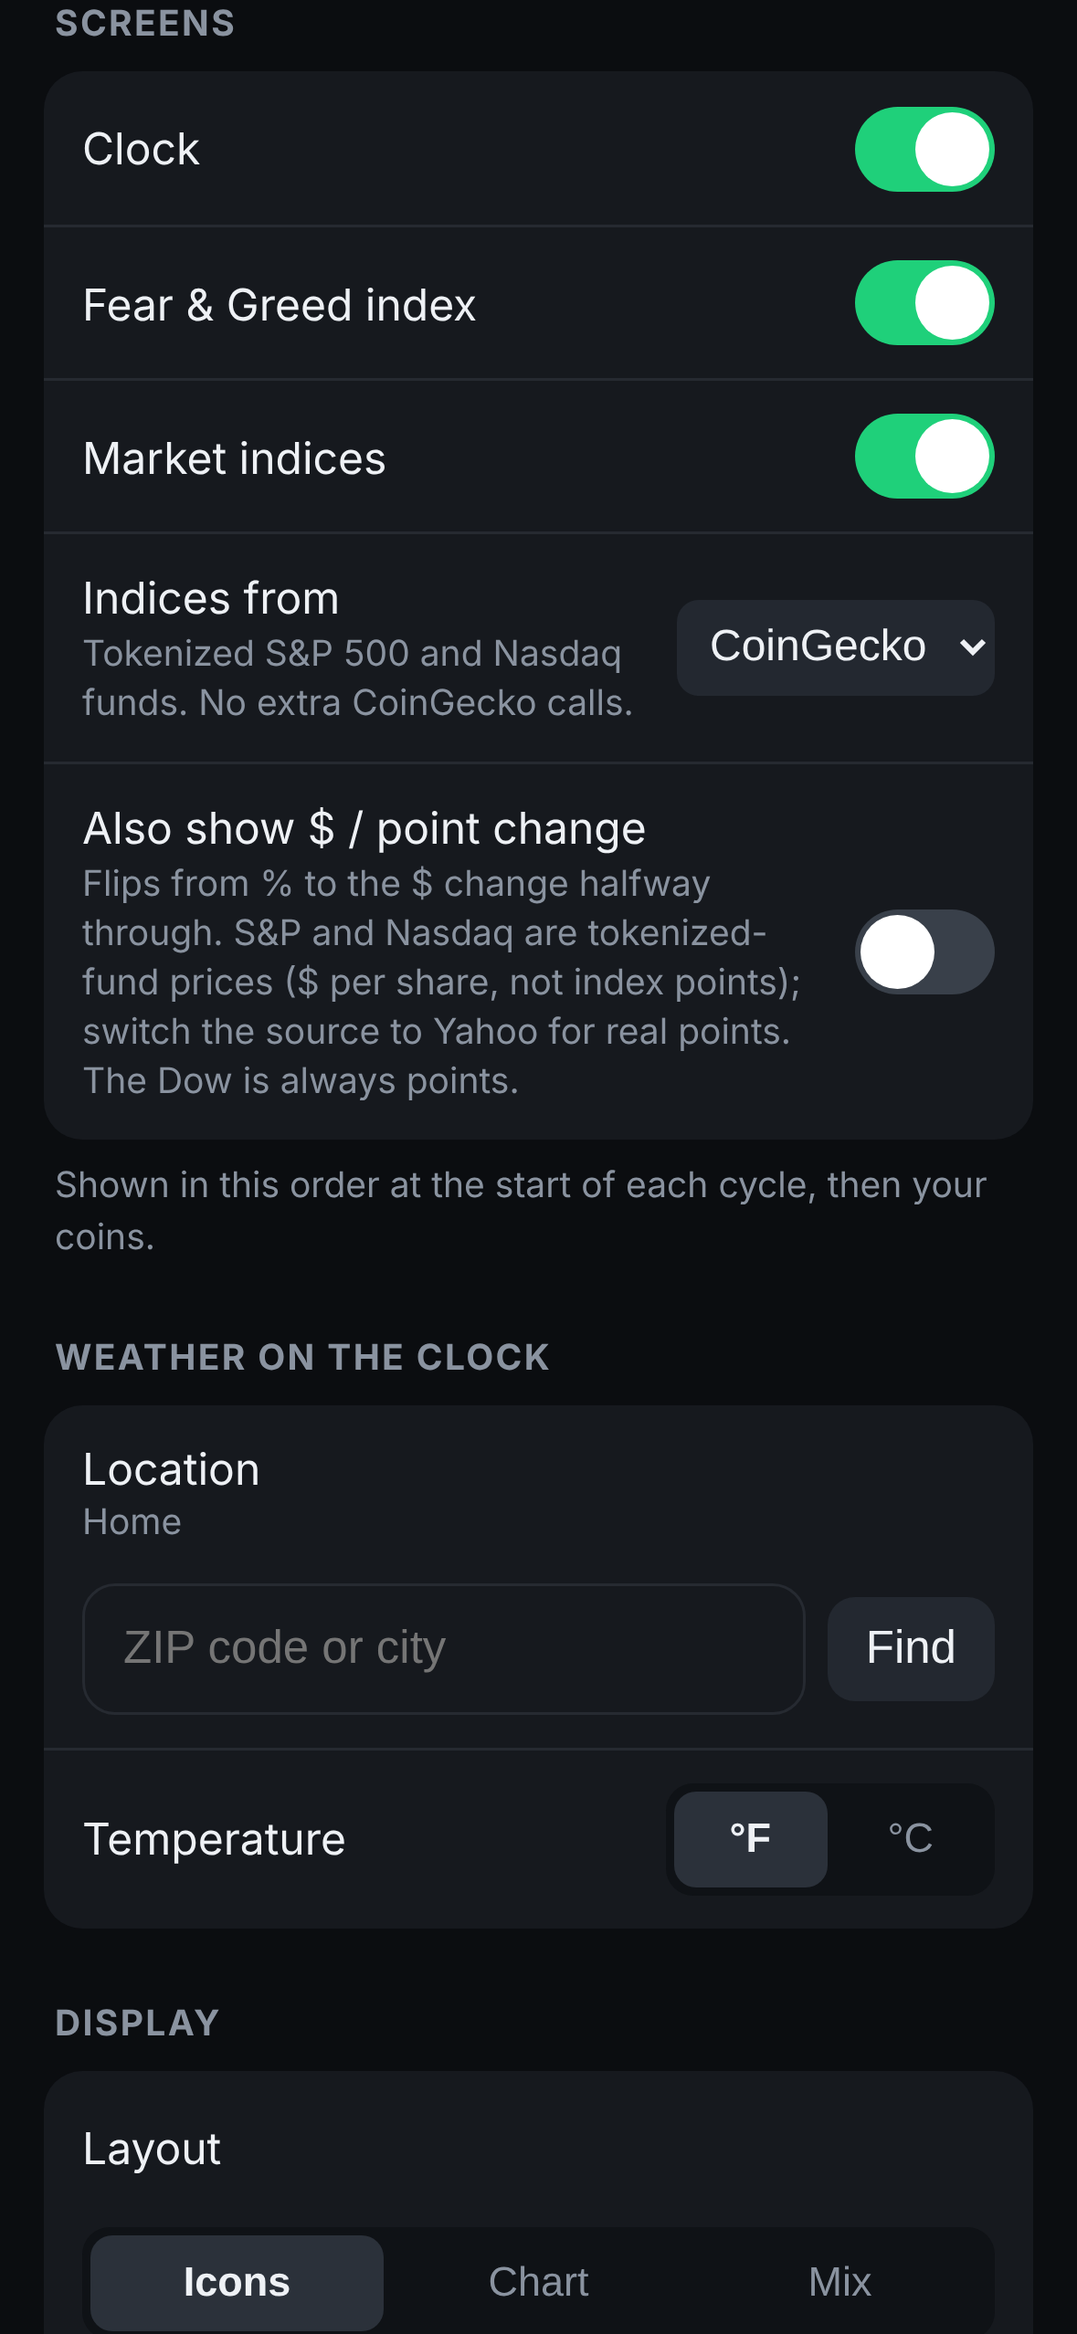
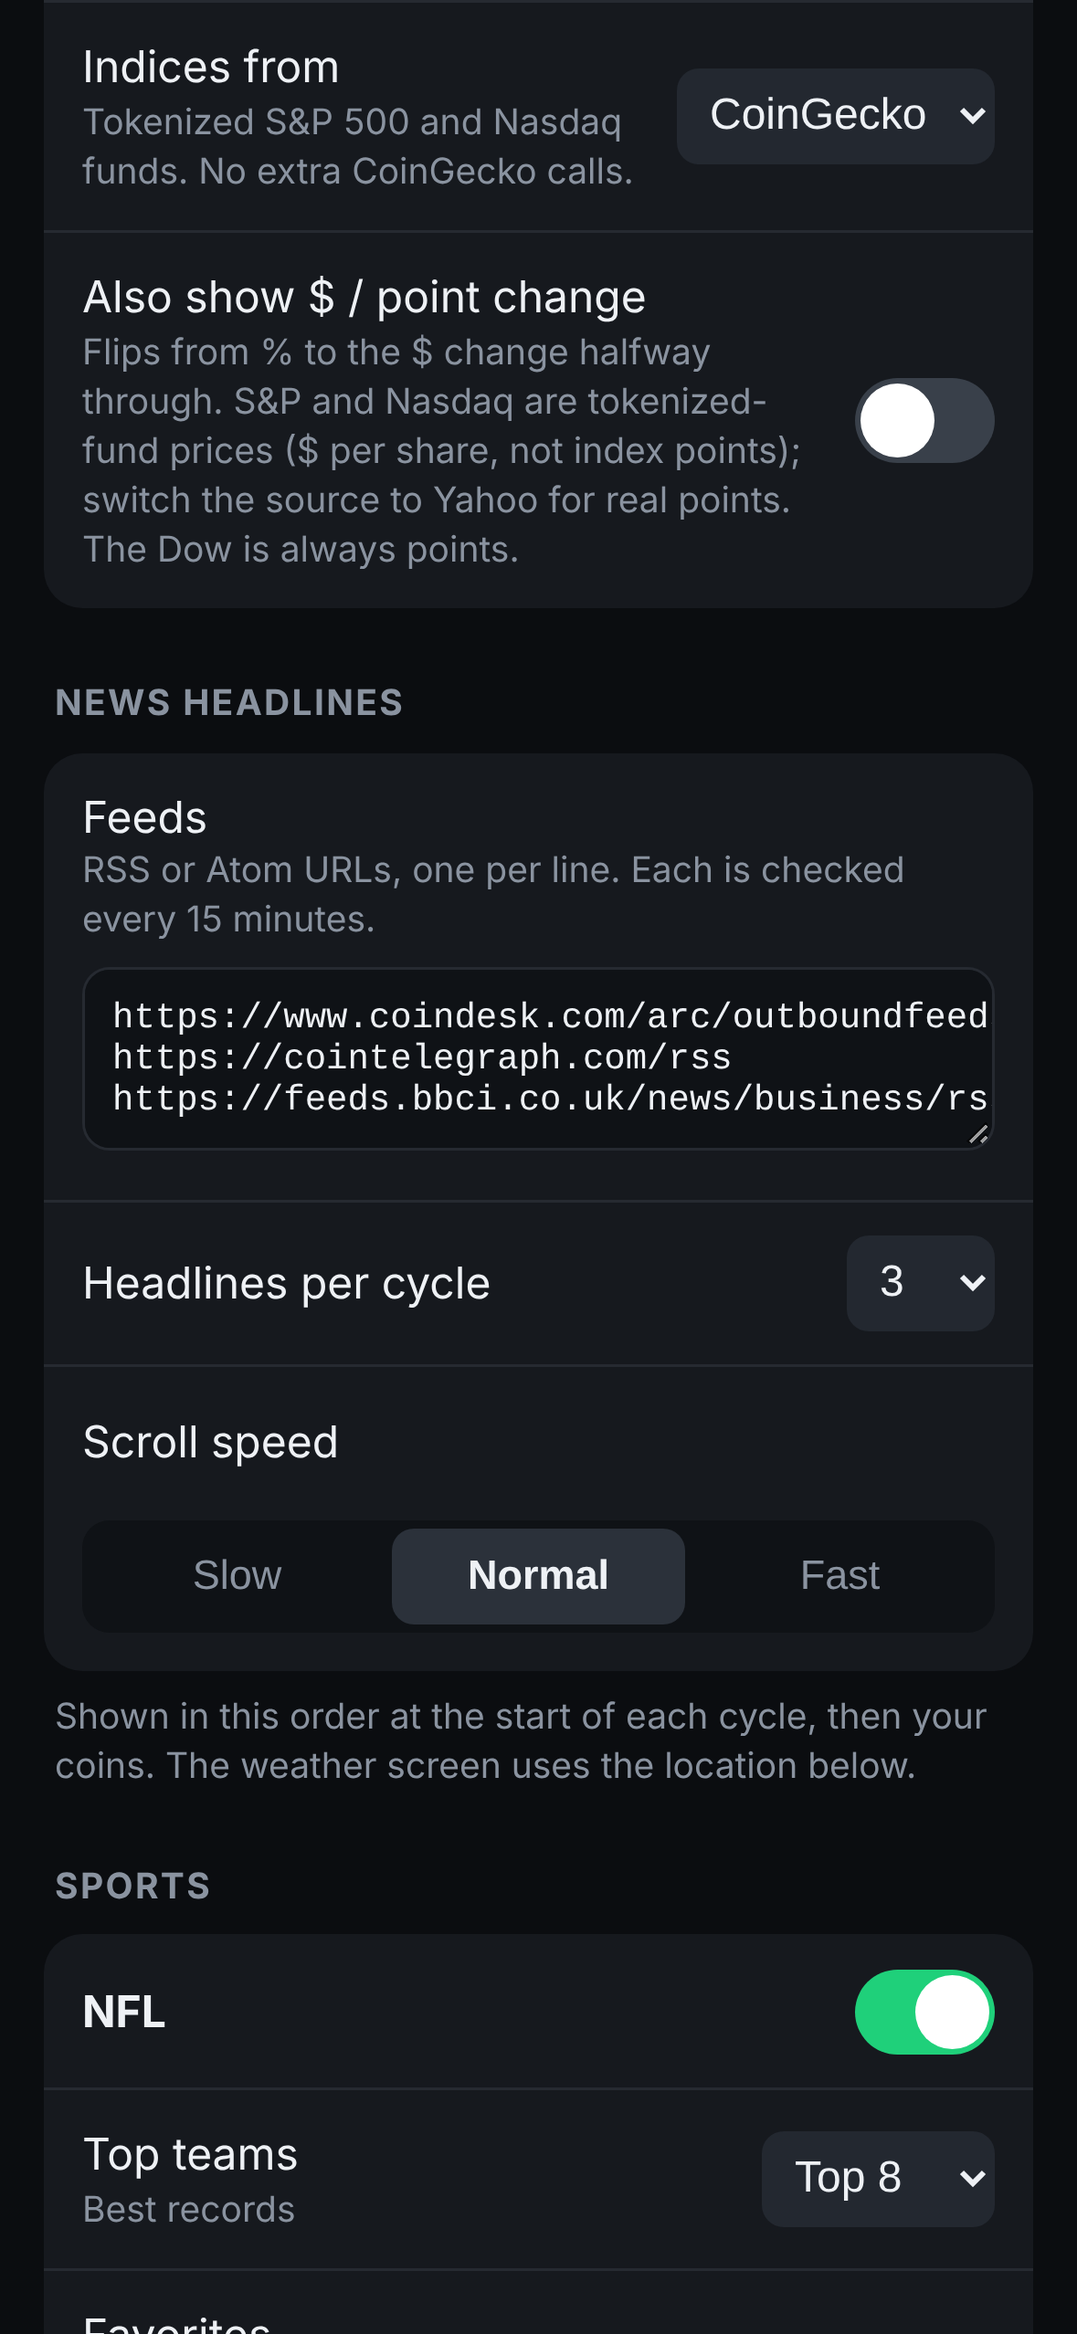
Docs and screenshots for the weather, news and sports screens
README section for the three screens and their settings, settings.env
example values, panel screenshots 13-19 on the contact sheet, news and
sports GIFs (docs/preview-news.gif, docs/preview-sports.gif), and iPhone
settings-page screenshots of the Screens, News and Sports sections.

Claude-Session: https://claude.ai/code/session_01CrJip9Jrz3Ax6cVzvSE4re

diff --git a/screenshots.py b/screenshots.py
@@ -12,14 +12,18 @@ and the output is the same on every run.
 import argparse
 import logging
 import os
-from datetime import datetime
+from datetime import datetime, timezone
+from zoneinfo import ZoneInfo
 
 from display import MatrixDisplay
 from prices import NetworkError, RateLimitError
-from sample import apply_sample
+from sample import apply_sample, sample_games, sample_news, sample_weather
+from sports import BY_KEY
 from ticker import HERE, Config, Ticker
 
 FIXED_TIME = datetime(2026, 1, 15, 21, 41)
+SPORTS_NOW = datetime(2026, 11, 7, 23, 0, tzinfo=timezone.utc)   # a Saturday evening in season
+SPORTS_TZ = ZoneInfo("America/New_York")                          # only changes how times print
 
 
 def build(rows, cols, layout="classic"):
@@ -66,6 +70,22 @@ def main():
         t.last_error = NetworkError("no route to host")
         return r.message("NO DATA", t.error_reason(), color=(230, 40, 30))
 
+    news_now = SPORTS_NOW.timestamp()
+    news = sample_news(news_now)
+    games = sample_games(SPORTS_NOW)
+
+    def mid(anim):
+        return anim.frame_at(anim.scroll_start + 0.45 * (anim.scroll_end - anim.scroll_start))
+
+    def game(key, i, fav=None):
+        g = dict(games[key][i], fav={"away": fav == "away", "home": fav == "home"})
+        return r.game(g, BY_KEY[key], SPORTS_TZ, SPORTS_NOW.timestamp()).first_frame()
+
+    def long_game():
+        g = dict(games["ncaam"][0], fav={"away": True, "home": False})
+        g["away"] = dict(g["away"], abbr="WASH", rank=25, score=105)
+        return r.game(g, BY_KEY["ncaam"], SPORTS_TZ, SPORTS_NOW.timestamp())
+
     def chart(sym, stale=False):
         r.layout = "chart"
         try:
@@ -90,6 +110,15 @@ def main():
         ("10e-list-view-5-stale", lambda: r.list_page(list5, rows=5, stale=True)),
         ("11-no-data-offline", offline),
         ("12-no-data-rate-limit", rate_limited),
+        ("13-weather", lambda: r.weather(sample_weather(), "F", FIXED_TIME.replace(hour=14))),
+        ("13b-weather-rain", lambda: r.weather(sample_weather(61), "F", FIXED_TIME.replace(hour=14))),
+        ("14-news", lambda: r.news(news[0], now_ts=news_now).first_frame()),
+        ("14b-news-scrolling", lambda: mid(r.news(news[0], now_ts=news_now))),
+        ("15-sports-live", lambda: game("nfl", 0, fav="away")),
+        ("16-sports-college-ranked", lambda: game("ncaaf", 0)),
+        ("17-sports-final", lambda: game("nba", 1)),
+        ("18-sports-upcoming", lambda: game("mlb", 2, fav="home")),
+        ("19-sports-row-scrolling", lambda: mid(long_game())),
     ]
     paths = []
     for name, make in shots:
@@ -101,6 +130,45 @@ def main():
     print("wrote", os.path.relpath(sheet))
     gif = transition_gif(os.path.join(HERE, "docs", "preview-scroll.gif"), args.rows, args.cols)
     print("wrote", os.path.relpath(gif))
+    for gif in (news_gif(os.path.join(HERE, "docs", "preview-news.gif")),
+                sports_gif(os.path.join(HERE, "docs", "preview-sports.gif"))):
+        print("wrote", os.path.relpath(gif))
+
+
+def _gif_ticker(transition="scroll"):
+    from display import GifDisplay
+    cfg = Config()
+    cfg.download_icons = False
+    cfg.transition = transition
+    gif = GifDisplay(64, 32, scale=4)
+    return Ticker(cfg, gif), gif
+
+
+def news_gif(out):
+    """Two headlines scrolling, made by the real Ticker.play() code (one pixel per frame)."""
+    t, gif = _gif_ticker()
+    now = SPORTS_NOW.timestamp()
+    items = sample_news(now)
+    for item in items[:2]:
+        t.play(t.renderer.news(item, now_ts=now))
+    t.play(t.renderer.news(items[0], now_ts=now))   # back to the start so it loops
+    gif.save(out)
+    return out
+
+
+def sports_gif(out):
+    """A few games with the scroll transition; one row is too long and scrolls."""
+    t, gif = _gif_ticker()
+    games = sample_games(SPORTS_NOW)
+    ts = SPORTS_NOW.timestamp()
+    g = dict(games["ncaam"][0], fav={"away": True, "home": False})
+    g["away"] = dict(g["away"], abbr="WASH", rank=25, score=105)
+    seq = [(dict(games["nfl"][0], fav={"away": True, "home": False}), "nfl"), (g, "ncaam"),
+           (dict(games["nba"][1], fav={}), "nba"), (dict(games["nfl"][0], fav={"away": True, "home": False}), "nfl")]
+    for game, key in seq:
+        t.play(t.renderer.game(game, BY_KEY[key], SPORTS_TZ, ts, hold=2.0))
+    gif.save(out)
+    return out
 
 
 def transition_gif(out, rows=32, cols=64, transition="scroll", hold=1.2):
@@ -142,6 +210,11 @@ LABELS = {
     "10c-list-view-5": "List view: 5 rows", "10d-list-view-4": "List view: 4 rows + %",
     "10e-list-view-5-stale": "List view, stale", "11-no-data-offline": "Offline, no cached prices",
     "12-no-data-rate-limit": "Rate limited, no cached prices",
+    "13-weather": "Weather: temp, high/low, next 12 h", "13b-weather-rain": "Weather: rain",
+    "14-news": "News headline (tag + age)", "14b-news-scrolling": "News: scrolling",
+    "15-sports-live": "Sports: live, favorite", "16-sports-college-ranked": "Sports: college, ranked",
+    "17-sports-final": "Sports: final (OT)", "18-sports-upcoming": "Sports: upcoming",
+    "19-sports-row-scrolling": "Sports: long row scrolls",
 }
 
 

diff --git a/sample.py b/sample.py
@@ -43,7 +43,18 @@ def apply_sample(ticker):
     ticker.yahoo_dow.data = [{"label": "DOW", "change": 0.18, "points": 81.4, "intraday": up}]
     ticker.fear_greed.data = {"value": 70, "label": "Greed", "yesterday": 65,
                               "history": [60, 58, 62, 66, 64, 63, 65, 70]}
-    ticker.weather.data = sample_weather()
+    ticker.weather.data = sample_weather(code=0, is_day=False)  # the clock screenshots are at night
+
+
+SAMPLE_NEWS = [  # made-up headlines and sources, for previews only
+    {"title": "Bitcoin Holds Above $109K as Spot ETF Inflows Reach a Three-Week High", "source": "CRYPTO WIRE"},
+    {"title": "Stocks Edge Higher as Tech Rallies Ahead of Earnings", "source": "MARKETS"},
+    {"title": "Stablecoin Supply Hits a New Record", "source": "CHAIN DAILY"},
+]
+
+
+def sample_news(now_ts, ages=(25 * 60, 2 * 3600, 5 * 3600)):
+    return [dict(item, at=now_ts - age, link=None) for item, age in zip(SAMPLE_NEWS, ages)]
 
 
 def sample_weather(code=2, is_day=True):

diff --git a/README.md b/README.md
@@ -10,8 +10,9 @@ for current Raspberry Pi OS. The hardware is the same; the software is rewritten
 
 Each coin screen shows the coin's icon, ticker, 24h change with ▲/▼, a 7-day chart and the
 price (auto-sized: `$109,235`, `$4,012.37`, `$0.0₄1123`). Each cycle can also show a **clock**
-with the weather, the crypto **Fear & Greed index**, and a **market indices** page. Screens scroll
-up into each other (or slide sideways, or switch instantly). Everything can be changed from your phone.
+with the weather, the crypto **Fear & Greed index**, and a **market indices** page, and optionally a
+**weather** screen, scrolling **news headlines** and **sports scores**. Screens scroll up into each
+other (or slide sideways, or switch instantly). Everything can be changed from your phone.
 
 ![Scroll transition](docs/preview-scroll.gif)
 
@@ -21,20 +22,25 @@ More screenshots (rendered by the emulator) are in [`docs/screenshots/`](docs/sc
 |--|--|--|--|--|--|
 | ![](docs/screenshots/07-coin-classic.png) | ![](docs/screenshots/06-featured.png) | ![](docs/screenshots/10d-list-view-4.png) | ![](docs/screenshots/10c-list-view-5.png) | ![](docs/screenshots/10-coin-stale.png) | ![](docs/screenshots/11-no-data-offline.png) |
 
+| Weather | News | Sports: live | Sports: college | Sports: final | Sports: upcoming |
+|--|--|--|--|--|--|
+| ![](docs/screenshots/13-weather.png) | ![](docs/screenshots/14-news.png) | ![](docs/screenshots/15-sports-live.png) | ![](docs/screenshots/16-sports-college-ranked.png) | ![](docs/screenshots/17-sports-final.png) | ![](docs/screenshots/18-sports-upcoming.png) |
+
 ## Contents
 
 1. [Hardware](#hardware)
 2. [Wiring check](#wiring-check)
 3. [Install](#install)
 4. [Configuration](#configuration)
-5. [Phone settings page](#phone-settings-page)
-6. [Updating (and rolling back)](#updating-and-rolling-back)
-7. [iPhone widget](#iphone-widget)
-8. [Running without hardware (emulator)](#running-without-hardware-emulator)
-9. [How failures are handled](#how-failures-are-handled)
-10. [Troubleshooting](#troubleshooting)
-11. [Development](#development)
-12. [Screenshots](#screenshots)
+5. [Weather, news and sports screens](#weather-news-and-sports-screens)
+6. [Phone settings page](#phone-settings-page)
+7. [Updating (and rolling back)](#updating-and-rolling-back)
+8. [iPhone widget](#iphone-widget)
+9. [Running without hardware (emulator)](#running-without-hardware-emulator)
+10. [How failures are handled](#how-failures-are-handled)
+11. [Troubleshooting](#troubleshooting)
+12. [Development](#development)
+13. [Screenshots](#screenshots)
 
 ## Hardware
 
@@ -136,8 +142,14 @@ value is logged as a warning and the default is used.
 | `FOCUS` | `off` | `on` = coin rotation shows only starred coins (clock, Fear & Greed and indices keep running). With nothing starred, all coins show |
 | `LIST_VIEW` | `off` | `off`, `4` (pages of 4: price + % change; the phone page's switch turns this on) or `5` (pages of 5 coins: ▲/▼ + price). Starred coins keep their big screens |
 | `LIST_PAGE_SECONDS` | `6` | Seconds per list page (2–60) |
-| `SCREENS` | `clock,feargreed,indices,coins` | Screens at the start of each cycle (coins always last) |
+| `SCREENS` | `clock,feargreed,indices,coins` | Screens at the start of each cycle, in order (coins always last). Also `weather`, `news`, `sports` (off by default) |
 | `INDICES_SOURCE` | `coingecko` | `coingecko` (tokenized funds, no extra calls) or `yahoo` (real index values; unofficial) |
+| `NEWS_FEEDS` | three crypto/business feeds | RSS or Atom URLs, comma separated (one per line on the phone page), up to 8 |
+| `NEWS_PER_CYCLE` | `3` | Headlines shown each cycle (1–10); the next cycle continues where this one stopped |
+| `NEWS_SPEED` | `normal` | Headline scroll speed: `slow` (20), `normal` (30) or `fast` (45 pixels/s) |
+| `SPORTS_<LEAGUE>` | `on` (`off` for NHL) | `SPORTS_NFL`, `SPORTS_NCAAF`, `SPORTS_NBA`, `SPORTS_NCAAM`, `SPORTS_MLB`, `SPORTS_NHL`: `on`/`off` |
+| `SPORTS_<LEAGUE>_TOP` | `25` college, `8` pro | Follow the AP Top `10`/`25` (college) or the top `4`/`8`/`12`/`16` by record (pro); `0` = off |
+| `SPORTS_<LEAGUE>_FAVORITES` | (none) | Favorite teams as ESPN `id:ABBR` pairs, e.g. `2:BUF`; easiest to pick on the phone page |
 | `INDICES_VIEW` | `percent` | `percent`, or `both` to flip to the $ / point change halfway through. With `coingecko`, S&P and Nasdaq are fund prices ($ per share), not index points |
 | `TIMEZONE` | Pi's setting | Clock and night-dimming time zone, e.g. `Europe/London` |
 | `WEATHER_PLACE` / `WEATHER_LAT` / `WEATHER_LON` / `TEMP_UNIT` | example values | Weather on the clock; easiest to set by ZIP code or city on the phone page |
@@ -158,6 +170,50 @@ value is logged as a warning and the default is used.
 **Custom icons:** tap a coin's picture on the phone page and choose a photo, or copy a PNG to
 `icons/<symbol>.png`. Your pictures stay on the Pi (they're not committed to git).
 
+## Weather, news and sports screens
+
+Turn them on in the phone page's **Screens** list and move them with ↑/↓. Each one comes in and
+goes out with your Transition setting, and each is skipped (never an error screen) when it has
+nothing to show.
+
+**Weather** uses the same Open-Meteo data and location as the clock (set by ZIP code or city on the
+phone page) and the °F/°C setting: a big current temperature, a condition icon, today's high
+(orange) and low (blue), and a line of the next 12 hours' temperatures along the bottom.
+
+**News** shows one headline at a time, scrolling right to left in a big bold font, with the source
+in a small colored tag and the headline's age. Feeds are checked every 15 minutes in the background;
+each feed keeps its last good headlines, so a broken feed or no Wi-Fi never empties the screen.
+HTML, entities and characters the LED font can't draw are cleaned up.
+
+![News scroll](docs/preview-news.gif)
+
+Scrolling moves one pixel per frame, and the position follows the clock, so a late frame never
+slows the text down. Building a frame is a copy plus a crop-and-paste of a pre-rendered strip:
+`python tools/bench_scroll.py` measures it (about 0.02 ms per frame on a desktop CPU against a
+22 ms budget at the fast speed). Run it on the Pi (`sudo ./venv/bin/python tools/bench_scroll.py --panel`)
+to see real numbers there.
+
+**Sports** shows NFL, college football, NBA, men's college basketball and MLB (NHL is in the list,
+off by default). For each sport the ticker follows the **top teams** (the AP Top 25 for college,
+the best records for pro leagues; adjustable) and your **favorites** (search and tap on the phone
+page). A game is shown if either team is followed:
+
+1. live games: score, period or inning, and clock (red)
+2. finals from the last 24 hours (grey)
+3. the next game for each favorite: day and time (yellow), with records
+
+Teams show as abbreviations with a team-color bar, `#7` for a ranking and ★ for a favorite. A line
+that doesn't fit scrolls like a headline. Sports out of season are skipped and hidden on the phone
+page. Data is ESPN's public scoreboard, rankings and standings JSON (unofficial; no key), fetched
+every 60 seconds while a followed game is live and every 15 minutes otherwise. Each sport keeps its
+last good data; if ESPN fails or changes its format, that sport is skipped. Live scores older than
+3 minutes get the red stale dot.
+
+![Sports](docs/preview-sports.gif)
+
+Adding a league is one line in the `LEAGUES` table in `sports.py` (ESPN path, name, whether it has
+AP rankings, season months, default on/off, default top teams, tag color).
+
 ## Phone settings page
 
 1. On your phone (same Wi-Fi), open `http://<hostname>.local:8080`. `install.sh` prints the address.
@@ -166,7 +222,8 @@ value is logged as a warning and the default is used.
 
 You can search and add coins (with rank and icon, so you pick the real one), reorder, star (★),
 turn on **Focus** and **List view**, change layout, transition (Scroll / Slide / None), brightness, time per coin, night dimming,
-screens, weather location, currency and refresh rate. Changes show on the panel within seconds.
+screens (on/off and order), news feeds and speed, sports and favorite teams, weather location,
+currency and refresh rate. Changes show on the panel within seconds.
 
 Every value is checked on the Pi before it's saved (ranges, allowed choices, coin-id format,
 time zones, coordinates), and nothing is written unless all fields pass; the page shows which
@@ -314,6 +371,9 @@ writes `docs/preview-scroll.gif`, the scroll transition made by the real `Ticker
 | "The update didn't start … restored automatically" | The new version crashed at startup; you're back on the old one. `journalctl -u crypto-ticker -b` shows why |
 | Wrong time on the clock | Set `TIMEZONE` (or the location on the phone page); check `timedatectl` |
 | SD card filling up | `du -sh logs cache`; lower `LOG_MAX_KB` / `LOG_BACKUPS` |
+| Weather screen never shows | It needs weather data: check the location on the phone page and the log for "Weather fetch failed" |
+| News screen never shows | No feed has worked yet: open a feed URL in a browser to check it, and look for "news feed … failed" in the log |
+| Sports screen never shows | No followed game in the last 24 h or upcoming, the sport is out of season, or ESPN failed ("sports … failed" in the log). Add a favorite to always see its next game |
 | Focus on but every coin shows | No coin is starred; tap ★ on the phone page (the page shows a hint) |
 
 ## Development
@@ -326,7 +386,8 @@ node --test tests/widget/widget.test.mjs   # iPhone widget tests (also run by py
 
 The tests mock CoinGecko responses: normal data, timeouts, HTTP 429, HTTP 5xx, malformed JSON,
 Wi-Fi loss, cold start offline, plus settings-page validation, Focus/List view, log rotation and
-the emulator. The widget tests run the Scriptable script against a small stand-in for
+the emulator. Weather, news and sports have their own mocked-data tests (normal, empty, malformed,
+offline; for sports also live/final/upcoming for every league), plus scroll timing and transitions. The widget tests run the Scriptable script against a small stand-in for
 Scriptable's API (`tests/widget/scriptable_stub.mjs`), not the real app.
 
 | File | Role |
@@ -337,10 +398,11 @@ Scriptable's API (`tests/widget/scriptable_stub.mjs`), not the real app.
 | `render.py` | Draws every screen as a Pillow image |
 | `display.py` | Real panel, emulator (with screenshots) or GIF recorder |
 | `webui.py` | Phone settings page with input validation |
+| `news.py`, `sports.py`, `scroller.py` | News feeds, ESPN scores and the league table, scrolling text |
 | `feeds.py`, `session.py`, `usage.py`, `icons.py`, `bdf.py` | Weather/F&G/indices, market sessions, API budget, icons, fonts |
 | `install.sh`, `crypto-ticker.service` | Install and auto-start |
 | `launcher.py`, `updater.py`, `sysinfo.py` | Service entry point + update safety net, Update/Roll back, Wi-Fi and uptime |
-| `tools/` | Demo settings server and Playwright screenshot scripts |
+| `tools/` | Demo settings server, Playwright screenshot scripts, scroll frame-time benchmark |
 | `screenshots.py`, `preview.py`, `sample.py` | Emulator screenshots, GIF preview, sample data |
 | `iphone/CryptoTicker.js` | Scriptable widget |
 
@@ -348,6 +410,7 @@ Price data from [CoinGecko](https://www.coingecko.com/en/api). Icons from CoinGe
 [spothq/cryptocurrency-icons](https://github.com/spothq/cryptocurrency-icons) as a fallback.
 LED driver: [hzeller/rpi-rgb-led-matrix](https://github.com/hzeller/rpi-rgb-led-matrix).
 Emulator: [RGBMatrixEmulator](https://github.com/ty-porter/RGBMatrixEmulator).
+Weather from [Open-Meteo](https://open-meteo.com/). Scores from ESPN's public site API (unofficial).
 
 ## Screenshots
 
@@ -358,8 +421,9 @@ Scriptable and is drawn as HTML (fonts, spacing and icons differ from iOS).
 
 | | |
 |--|--|
-| Every panel screen | `panel-contact-sheet.png` (individual screens: `01-…` to `12-…`) |
-| Settings page (iPhone) | `settings-page-iphone-full.png`, `-top`, `-list-view`, `-indices`, `-status-update`, `-deploy-key` |
+| Every panel screen | `panel-contact-sheet.png` (individual screens: `01-…` to `19-…`) |
+| Animations | `../preview-scroll.gif`, `../preview-news.gif`, `../preview-sports.gif` |
+| Settings page (iPhone) | `settings-page-iphone-full.png`, `-top`, `-screens`, `-news`, `-sports`, `-list-view`, `-indices`, `-status-update`, `-deploy-key` |
 | iPhone widget | `widget-contact-sheet.png`, `widget-coins-*.png`, `widget-news-*.png` |
 
 ![Every panel screen](docs/screenshots/panel-contact-sheet.png)
